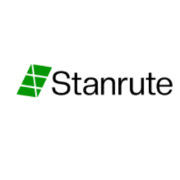
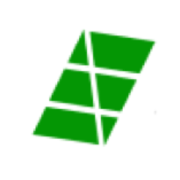
Finishing touches

Changed region(s): [[0.0833, 0.1667, 0.9722, 0.8056]]

diff --git a/src/components/Navbar/index.module.css b/src/components/Navbar/index.module.css
@@ -15,13 +15,25 @@
   transition: all 0.4s, color 0s;
 }
 
-.navbar.scrolled {
-  color: #000 !important;
+.navbar :global(.logo-scrolled) {
+  display: none;
 }
 
-.navbar.scrolled img {
-  -webkit-filter: invert(1);
-          filter: invert(1);
+.navbar.scrolled :global(.logo) {
+  display: none;
+}
+
+.navbar.scrolled :global(.logo-scrolled) {
+  display: initial;
+  width: 200px;
+  position: absolute;
+  left: 40px;
+  top: 5px;
+  z-index: 3;
+}
+
+.navbar.scrolled :global(.logo-scrolled) img {
+  max-width: 100%;
 }
 
 .navbar .toggle {
@@ -43,11 +55,12 @@
   list-style: none;
   margin: 0;
   padding: 10px 40px;
+  color: inherit;
 }
 
 .navbar li a {
   text-decoration: none;
-  color: currentColor;
+  color: inherit;
   font-weight: 700;
   position: relative;
 }
@@ -87,6 +100,11 @@
   .navbar {
     padding-top: 15px;
   }
+  .navbar.scrolled :global(.logo-scrolled) {
+    left: -10px;
+    top: 0;
+    width: 170px;
+  }
 }
 
 @media screen and (max-width: 700px) {
@@ -103,6 +121,10 @@
   .navbar.active img {
     -webkit-filter: invert(1);
             filter: invert(1);
+  }
+  .navbar.active.scrolled img {
+    -webkit-filter: unset;
+            filter: unset;
   }
   .navbar .toggle {
     position: absolute;
@@ -175,6 +197,9 @@
   .navbar .toggle.active span {
     opacity: 0;
   }
+  .navbar.scrolled .toggle {
+    color: #000 !important;
+  }
   .navbar ul {
     -webkit-box-orient: vertical;
     -webkit-box-direction: normal;
@@ -195,6 +220,9 @@
             justify-content: flex-start;
     -webkit-transform: translateY(-150%);
             transform: translateY(-150%);
+  }
+  .navbar ul a {
+    color: #000 !important;
   }
   .navbar.active ul {
     -webkit-transform: translateY(0);

diff --git a/src/components/Footer/Footer.jsx b/src/components/Footer/Footer.jsx
@@ -3,7 +3,7 @@ import style from "./index.module.css";
 import logo from "./logo.png";
 import facebook from "./facebook-f.svg";
 import instagram from "./instagram.svg";
-import twitter from "./twitter.svg";
+import telegram from "./telegram.svg";
 import whatsapp from "./whatsapp.svg";
 import { Link } from "react-router-dom";
 
@@ -26,22 +26,22 @@ export default function Footer() {
           <a href="/">Terms of Services</a>
           <a href="/">Privacy Policy</a>
         </div>
-        <div className={style.col_3}>13 Dieke Avenue, Delta State.</div>
-      </div>
-
-      <div className={style.social_icons}>
-        <a href="https://wa.me/2348088261852">
-          <img src={whatsapp} alt="whatsapp" />
-        </a>
-        <a href="https://www.instagram.com/mystanrute_/">
-          <img src={instagram} alt="instagram" />
-        </a>
-        <a href="/">
-          <img src={twitter} alt="twitter" />
-        </a>
-        <a href="/">
-          <img src={facebook} alt="facebook" />
-        </a>
+        <div className={style.col_3}>
+          <div className={style.social_icons}>
+            <a href="https://wa.me/2348088261852">
+              <img src={whatsapp} alt="whatsapp" />
+            </a>
+            <a href="https://www.instagram.com/mystanrute_/">
+              <img src={instagram} alt="instagram" />
+            </a>
+            <a href="https://t.me/+GwfL6ttfuBljMjhk">
+              <img src={telegram} alt="telegram" />
+            </a>
+            <a href="/">
+              <img src={facebook} alt="facebook" />
+            </a>
+          </div>
+        </div>
       </div>
     </footer>
   );

diff --git a/src/components/Navbar/index.module.scss b/src/components/Navbar/index.module.scss
@@ -9,10 +9,25 @@
   padding: 30px 30px;
   transition: all 0.4s, color 0s;
 
+  :global(.logo-scrolled) {
+    display: none;
+  }
+
   &.scrolled {
-    color: #000 !important;
-    img {
-      filter: invert(1);
+    :global(.logo) {
+      display: none;
+    }
+
+    :global(.logo-scrolled) {
+      display: initial;
+      width: 200px;
+      position: absolute;
+      left: 40px;
+      top: 5px;
+      z-index: 3;
+      img {
+        max-width: 100%;
+      }
     }
   }
 
@@ -28,9 +43,10 @@
     list-style: none;
     margin: 0;
     padding: 10px 40px;
+    color: inherit;
     a {
       text-decoration: none;
-      color: currentColor;
+      color: inherit;
       font-weight: 700;
       position: relative;
       &::before {
@@ -63,6 +79,13 @@
 @media screen and(max-width:800px) {
   .navbar {
     padding-top: 15px;
+    &.scrolled {
+      :global(.logo-scrolled) {
+        left: -10px;
+        top: 0;
+        width: 170px;
+      }
+    }
   }
 }
 
@@ -76,6 +99,11 @@
     &.active img {
       filter: invert(1);
     }
+
+    &.active.scrolled img {
+      filter: unset;
+    }
+
     .toggle {
       position: absolute;
       z-index: 5;
@@ -133,6 +161,12 @@
       }
     }
 
+    &.scrolled {
+      .toggle {
+        color: #000 !important;
+      }
+    }
+
     ul {
       flex-direction: column;
       padding-top: 80px;
@@ -147,6 +181,9 @@
       z-index: 2;
       justify-content: flex-start;
       transform: translateY(-150%);
+      a {
+        color: #000 !important;
+      }
     }
     &.active ul {
       transform: translateY(0);

diff --git a/src/components/Navbar/Navbar.jsx b/src/components/Navbar/Navbar.jsx
@@ -50,21 +50,37 @@ export default function Navbar({ children, textColor, checkScroll }) {
         <span></span>
       </span>
       <nav className={active ? style.active : ""}>
-        <ul>
+        <ul style={{ color: scrolled ? "#000" : textColor }}>
           <li>
-            <Link to="/">Home</Link>
+            <Link to="/" style={{ color: scrolled ? "#000" : textColor }}>
+              Home
+            </Link>
           </li>
           <li>
-            <Link to="/about">About us</Link>
+            <Link to="/about" style={{ color: scrolled ? "#000" : textColor }}>
+              About us
+            </Link>
           </li>
           <li>
-            <Link to="/blog">Blog</Link>
+            <Link to="/blog" style={{ color: scrolled ? "#000" : textColor }}>
+              Blog
+            </Link>
           </li>
           <li>
-            <Link to="/academy">Academy</Link>
+            <Link
+              to="/academy"
+              style={{ color: scrolled ? "#000" : textColor }}
+            >
+              Academy
+            </Link>
           </li>
           <li>
-            <Link to="/careers">Careers</Link>
+            <Link
+              to="/careers"
+              style={{ color: scrolled ? "#000" : textColor }}
+            >
+              Careers
+            </Link>
           </li>
         </ul>
       </nav>

diff --git a/src/components/Footer/index.module.css b/src/components/Footer/index.module.css
@@ -6,6 +6,7 @@
   background-image: url(./logo_bg.png);
   background-repeat: no-repeat;
   background-position-y: 70%;
+  padding-bottom: 120px;
 }
 
 .footer img {
@@ -43,8 +44,6 @@
   -webkit-box-pack: center;
       -ms-flex-pack: center;
           justify-content: center;
-  padding: 50px 0;
-  padding-top: 100px;
 }
 
 .footer .social_icons a {
@@ -60,6 +59,7 @@
 @media screen and (max-width: 600px) {
   .footer {
     background-position-x: 50%;
+    padding-bottom: 60px;
   }
   .footer img {
     width: 100px;
@@ -69,6 +69,11 @@
         grid-template-columns: 1fr 1fr;
     justify-items: stretch;
     grid-row-gap: 20px;
+  }
+  .footer .links .col_3 {
+    -ms-grid-column: 1;
+    -ms-grid-column-span: 2;
+    grid-column: 1 / 3;
   }
   .footer .social_icons {
     padding-top: 50px;

diff --git a/src/components/Footer/index.module.scss b/src/components/Footer/index.module.scss
@@ -6,6 +6,7 @@
   background-image: url(./logo_bg.png);
   background-repeat: no-repeat;
   background-position-y: 70%;
+  padding-bottom: 120px;
 
   img {
     width: 180px;
@@ -35,8 +36,6 @@
   .social_icons {
     display: flex;
     justify-content: center;
-    padding: 50px 0;
-    padding-top: 100px;
 
     a {
       width: 30px;
@@ -52,6 +51,7 @@
 @media screen and(max-width:600px) {
   .footer {
     background-position-x: 50%;
+    padding-bottom: 60px;
   }
 
   .footer img {
@@ -62,6 +62,9 @@
     grid-template-columns: 1fr 1fr;
     justify-items: stretch;
     grid-row-gap: 20px;
+    .col_3 {
+      grid-column: 1 / 3;
+    }
   }
 
   .footer .social_icons {

diff --git a/src/pages/Home/Hero.jsx b/src/pages/Home/Hero.jsx
@@ -1,6 +1,7 @@
 import { React, useState, useEffect } from "react";
 import Navbar from "../../components/Navbar/Navbar";
 import Logo from "./images/logo.png";
+import Stanrute from "./images/Stanrute.png";
 import { Link } from "react-router-dom";
 import useInterval from "./useInterval";
 
@@ -30,6 +31,9 @@ export default function Hero() {
       <Navbar textColor={"#fff"} checkScroll={true}>
         <Link to="/" className="logo">
           <img src={Logo} alt="Logo" />
+        </Link>
+        <Link to="/" className="logo-scrolled">
+          <img src={Stanrute} alt="Logo" />
         </Link>
       </Navbar>
       <section className="inner">
